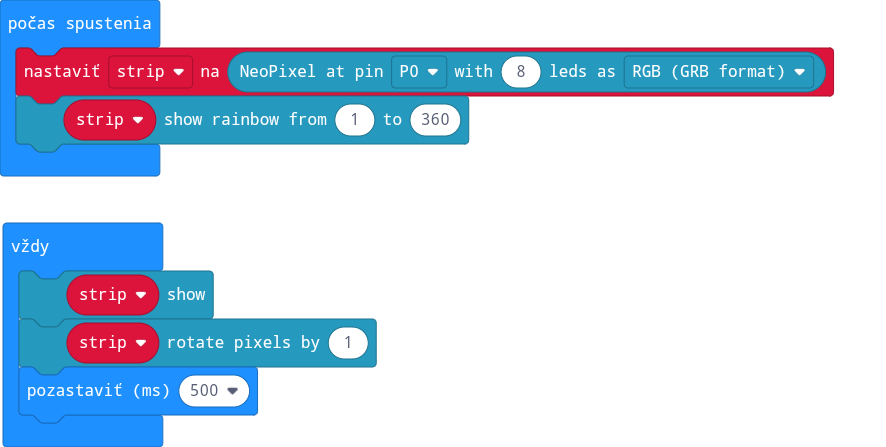
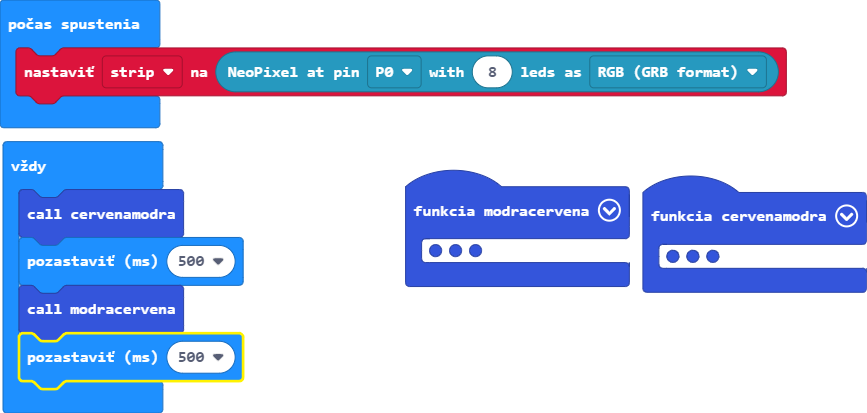
Update main.blocks, main.ts

diff --git a/main.ts b/main.ts
@@ -1,7 +1,30 @@
-let strip = neopixel.create(DigitalPin.P0, 8, NeoPixelMode.RGB)
-strip.showRainbow(1, 360)
-basic.forever(function () {
+function modracervena () {
     strip.show()
-    strip.rotate(1)
+    strip.setPixelColor(0, neopixel.colors(NeoPixelColors.Red))
+    strip.setPixelColor(1, neopixel.colors(NeoPixelColors.Blue))
+    strip.setPixelColor(2, neopixel.colors(NeoPixelColors.Red))
+    strip.setPixelColor(3, neopixel.colors(NeoPixelColors.Blue))
+    strip.setPixelColor(4, neopixel.colors(NeoPixelColors.Red))
+    strip.setPixelColor(5, neopixel.colors(NeoPixelColors.Blue))
+    strip.setPixelColor(6, neopixel.colors(NeoPixelColors.Red))
+    strip.setPixelColor(7, neopixel.colors(NeoPixelColors.Blue))
+}
+function cervenamodra () {
+    strip.show()
+    strip.setPixelColor(0, neopixel.colors(NeoPixelColors.Blue))
+    strip.setPixelColor(1, neopixel.colors(NeoPixelColors.Red))
+    strip.setPixelColor(2, neopixel.colors(NeoPixelColors.Blue))
+    strip.setPixelColor(3, neopixel.colors(NeoPixelColors.Red))
+    strip.setPixelColor(4, neopixel.colors(NeoPixelColors.Blue))
+    strip.setPixelColor(5, neopixel.colors(NeoPixelColors.Red))
+    strip.setPixelColor(6, neopixel.colors(NeoPixelColors.Blue))
+    strip.setPixelColor(7, neopixel.colors(NeoPixelColors.Red))
+}
+let strip: neopixel.Strip = null
+strip = neopixel.create(DigitalPin.P0, 8, NeoPixelMode.RGB)
+basic.forever(function () {
+    cervenamodra()
+    basic.pause(500)
+    modracervena()
     basic.pause(500)
 })
